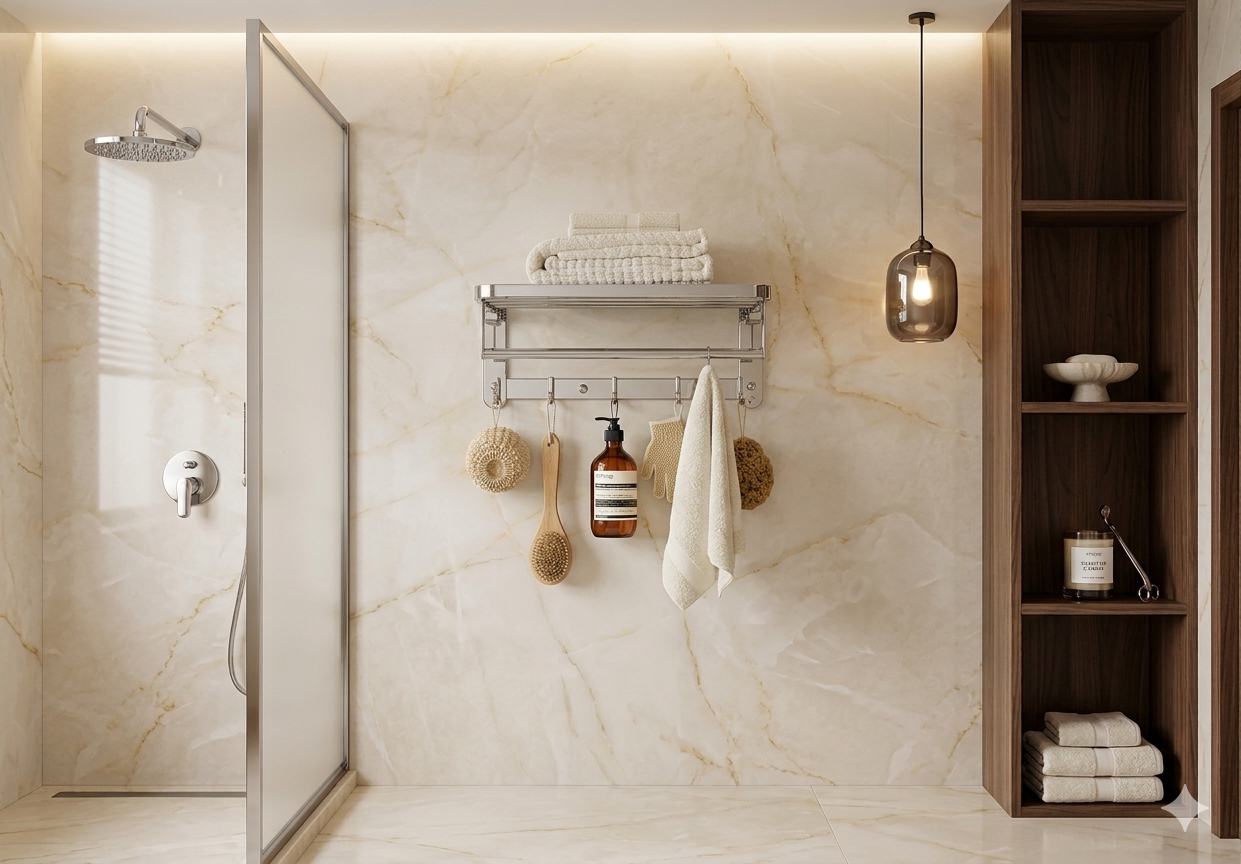
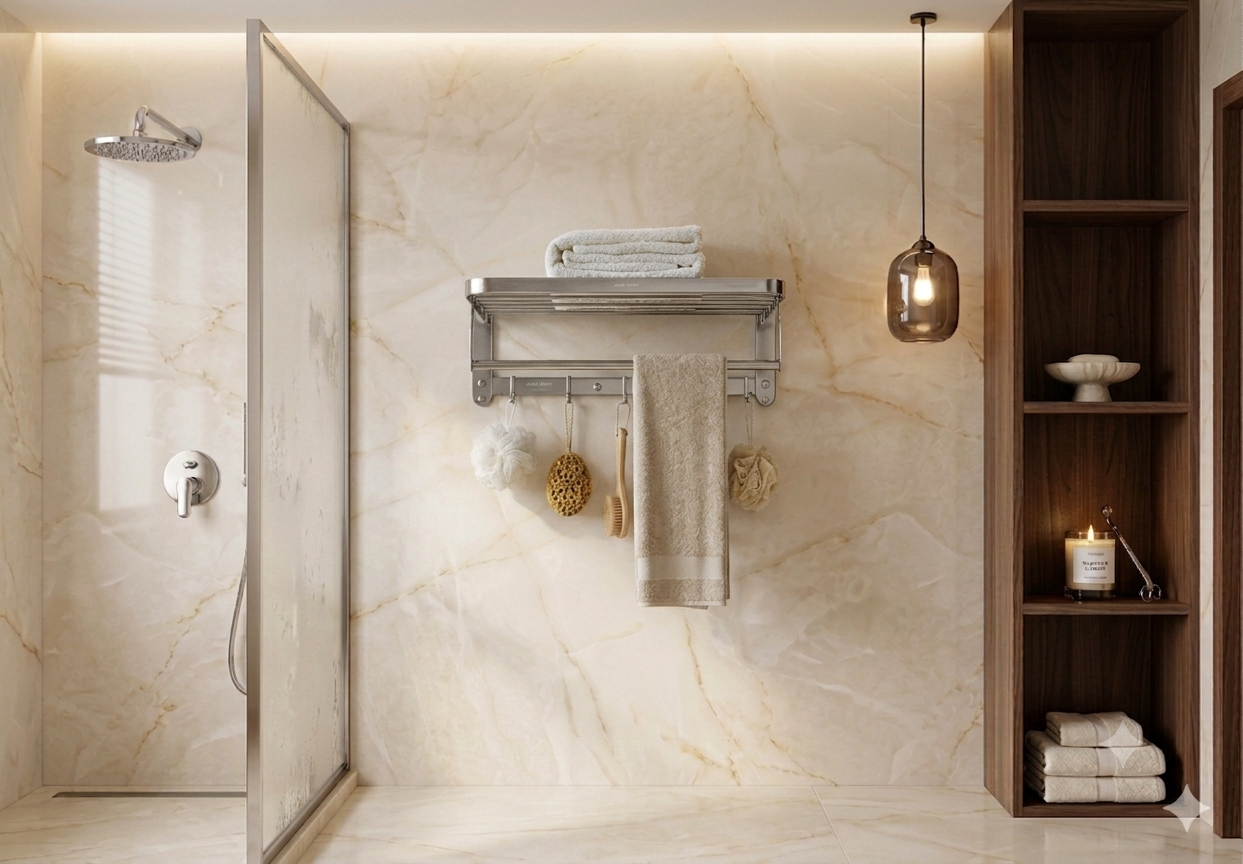
added new hero image

diff --git a/assets/css/style.css b/assets/css/style.css
@@ -376,7 +376,7 @@ h6 {
   position: absolute;
   inset: 0;
   z-index: 1;
-  background: linear-gradient(135deg, rgba(0, 0, 0, 0.85) 0%, rgba(0, 0, 0, 0.5) 100%);
+   background: linear-gradient(135deg, rgba(0, 0, 0, 0.6) 0%, rgba(0, 0, 0, 0.3) 100%);
 }
 
 .hero-content {